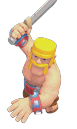
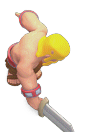
some photo added and walk of troop is ok

diff --git a/src/model/cards/CellValue.java b/src/model/cards/CellValue.java
@@ -4,51 +4,55 @@ import javafx.scene.image.Image;
 
 public enum CellValue {
 
-    BRIDGE(new Image("/view/photos/BackGround_Arena/bridge.png"), new Image("/view/photos/BackGround_Arena/bridge.png"), new Image("/view/photos/BackGround_Arena/bridge.png"), new Image("/view/photos/BackGround_Arena/bridge.png"), new Image("/view/photos/BackGround_Arena/bridge.png")),
-    HROAD(new Image("/view/photos/BackGround_Arena/roadTexture_13.png"), new Image("/view/photos/BackGround_Arena/roadTexture_13.png"), new Image("/view/photos/BackGround_Arena/bridge.png"), new Image("/view/photos/BackGround_Arena/bridge.png"), new Image("/view/photos/BackGround_Arena/bridge.png")),
-    GIANT(new Image("/view/photos/giant.png"), new Image("/view/photos/giant/myGiant_walk.png"), new Image("/view/photos/giant/myGiant_attack.png"), new Image("/view/photos/giant/botGiant_walk.png"), new Image("/view/photos/giant/botGiant_attack.png")),
-    ARCHER(new Image("/view/photos/archers.png"), new Image("/view/photos/archer/myArcher_walk.png"), new Image("/view/photos/archer/myArcher_attack.png"), new Image("/view/photos/archer/botArcher_walk.png"), new Image("/view/photos/archer/botArcher_attack.png")),
-    BARBERIAN(new Image("/view/photos/barbarians.png"), new Image("/view/photos/barbarian/myBarbarian_walk.png"), new Image("/view/photos/barbarian/myBarbarian_attack.png"), new Image("/view/photos/barbarian/botBarbarian_walk.png"), new Image("/view/photos/barbarian/botBarbarian_attack.png")),
-    WIZARD(new Image("/view/photos/wizard.png"), new Image("/view/photos/wizard/myWizard_walk.png"), new Image("/view/photos/wizard/myWizard_attack.png"), new Image("/view/photos/wizard/botWizard_walk.png"), new Image("/view/photos/wizard/botWizard_attack.png")),
-    MINI_PEKA(new Image("/view/photos/mini_pekka.png"), new Image("/view/photos/mini_pekka/myMinipekka_walk.png"), new Image("/view/photos/mini_pekka/myMinipekka_attack.png"), new Image("/view/photos/mini_pekka/botMinipekka_walk.png"), new Image("/view/photos/mini_pekka/botMinipekka_attack.png")),
-    RAGE(new Image("/view/photos/rage.png"), new Image("/view/photos/rage.png"), new Image("/view/photos/rage.png"), new Image("/view/photos/rage.png"), new Image("/view/photos/rage.png")),
-    ARROWS(new Image("/view/photos/arrows.png"), new Image("/view/photos/arrows.png"), new Image("/view/photos/arrows.png"), new Image("/view/photos/arrows.png"), new Image("/view/photos/arrows.png")),
-    FIREBALL(new Image("/view/photos/fire_fireball.png"), new Image("/view/photos/fire_fireball.png"), new Image("/view/photos/fire_fireball.png"), new Image("/view/photos/fire_fireball.png"), new Image("/view/photos/fire_fireball.png")),
-    BABY_DRAGON(new Image("/view/photos/baby_dragon.png"), new Image("/view/photos/baby_dragon/myBabydragon_walk.png"), new Image("/view/photos/baby_dragon/myBabydragon_walk.png"), new Image("/view/photos/baby_dragon/botBabydragon_walk.png"), new Image("/view/photos/baby_dragon/botBabydragon_walk.png")),
-    VALKYRIE(new Image("view/photos/valkyrie.png"), new Image("view/photos/valkyrie/myValkyrie_walk.png"), new Image("view/photos/valkyrie/myValkyrie_attack.png"), new Image("view/photos/valkyrie/botValkyrie_walk.png"), new Image("view/photos/valkyrie/botValkyrie_attack.png")),
-    CANNON(new Image("view/photos/chaos_cannon.png"), new Image("view/photos/building/cannon.png"), new Image("view/photos/building/cannon.png"), new Image("view/photos/building/cannon.png"), new Image("view/photos/building/cannon.png")),
-    INFERNO(new Image("view/photos/inferno_tower.png"), new Image("view/photos/building/infernoTower.png"), new Image("view/photos/building/infernoTower.png"), new Image("view/photos/building/infernoTower.png"), new Image("view/photos/building/infernoTower.png")),
-    GRASS(new Image("/view/photos/BackGround_Arena/grass.png"), new Image("/view/photos/BackGround_Arena/grass.png"), new Image("/view/photos/BackGround_Arena/grass.png"), new Image("/view/photos/BackGround_Arena/grass.png"), new Image("/view/photos/BackGround_Arena/grass.png")),
-    MYKINGTOWER(new Image("/view/photos/BackGround_Arena/king_tower.png"), new Image("/view/photos/tower/myKingtower.png"), new Image("/view/photos/tower/myKingtower.png"), new Image("/view/photos/tower/myKingtower.png"), new Image("/view/photos/tower/myKingtower.png")),
-    MYARCHERTOWER(new Image("/view/photos/BackGround_Arena/archer_tower.png"), new Image("/view/photos/tower/myArchertower.png"), new Image("/view/photos/tower/myArchertower.png"), new Image("/view/photos/tower/myArchertower.png"), new Image("/view/photos/tower/myArchertower.png")),
-    BOTKINGTOWER(new Image("/view/photos/BackGround_Arena/king_tower.png"), new Image("/view/photos/tower/botKingtower.png"), new Image("/view/photos/tower/botKingtower.png"), new Image("/view/photos/tower/botKingtower.png"), new Image("/view/photos/tower/botKingtower.png")),
-    BOTARCHERTOWER(new Image("/view/photos/BackGround_Arena/archer_tower.png"), new Image("/view/photos/tower/botArchertower.png"), new Image("/view/photos/tower/botArchertower.png"), new Image("/view/photos/tower/botArchertower.png"), new Image("/view/photos/tower/botArchertower.png")),
-    STONE(new Image("/view/photos/BackGround_Arena/stone.png"), new Image("/view/photos/BackGround_Arena/stone.png"), new Image("/view/photos/BackGround_Arena/stone.png"), new Image("/view/photos/BackGround_Arena/stone.png"), new Image("/view/photos/BackGround_Arena/stone.png")),
-    RIVER(new Image("/view/photos/BackGround_Arena/river2.png"), new Image("/view/photos/BackGround_Arena/river2.png"), new Image("/view/photos/BackGround_Arena/river2.png"), new Image("/view/photos/BackGround_Arena/river2.png"), new Image("/view/photos/BackGround_Arena/river2.png")),
-    ROAD(new Image("/view/photos/BackGround_Arena/roadTexture_01.png"), new Image("/view/photos/BackGround_Arena/roadTexture_01.png"), new Image("/view/photos/BackGround_Arena/roadTexture_01.png"), new Image("/view/photos/BackGround_Arena/roadTexture_01.png"), new Image("/view/photos/BackGround_Arena/roadTexture_01.png")),
-    FENCE(new Image("/view/photos/BackGround_Arena/king_tower.png"), new Image("/view/photos/BackGround_Arena/king_tower.png"), new Image("/view/photos/BackGround_Arena/king_tower.png"), new Image("/view/photos/BackGround_Arena/king_tower.png"), new Image("/view/photos/BackGround_Arena/king_tower.png")),
-    SHRUB(new Image("/view/photos/BackGround_Arena/shrub.png"), new Image("/view/photos/BackGround_Arena/shrub.png"), new Image("/view/photos/BackGround_Arena/shrub.png"), new Image("/view/photos/BackGround_Arena/shrub.png"), new Image("/view/photos/BackGround_Arena/shrub.png")),
-    TREE(new Image("/view/photos/BackGround_Arena/tree.png"), new Image("/view/photos/BackGround_Arena/tree.png"), new Image("/view/photos/BackGround_Arena/tree.png"), new Image("/view/photos/BackGround_Arena/tree.png"), new Image("/view/photos/BackGround_Arena/tree.png")),
-    HOME(new Image("/view/photos/BackGround_Arena/home.png"), new Image("/view/photos/BackGround_Arena/home.png"), new Image("/view/photos/BackGround_Arena/home.png"), new Image("/view/photos/BackGround_Arena/home.png"), new Image("/view/photos/BackGround_Arena/home.png")),
-    TIME(new Image("/view/photos/BackGround_Arena/timeBackground1.jpg"), new Image("/view/photos/BackGround_Arena/timeBackground.jpg"), new Image("/view/photos/BackGround_Arena/timeBackground.jpg"), new Image("/view/photos/BackGround_Arena/timeBackground.jpg"), new Image("/view/photos/BackGround_Arena/timeBackground.jpg")),
-    B_CROWN(new Image("/view/photos/BackGround_Arena/blueCrown.png"), new Image("/view/photos/BackGround_Arena/blueCrown.png"), new Image("/view/photos/BackGround_Arena/blueCrown.png"), new Image("/view/photos/BackGround_Arena/blueCrown.png"), new Image("/view/photos/BackGround_Arena/blueCrown.png")),
-    R_CROWN(new Image("/view/photos/BackGround_Arena/redCrown.png"), new Image("/view/photos/BackGround_Arena/redCrown.png"), new Image("/view/photos/BackGround_Arena/redCrown.png"), new Image("/view/photos/BackGround_Arena/redCrown.png"), new Image("/view/photos/BackGround_Arena/redCrown.png")),
-    POINT(new Image("/view/photos/BackGround_Arena/timeBackground1.jpg"), new Image("/view/photos/BackGround_Arena/timeBackground1.jpg"), new Image("/view/photos/BackGround_Arena/timeBackground1.jpg"), new Image("/view/photos/tower/damageTower.png"), new Image("/view/photos/BackGround_Arena/timeBackground1.jpg")),
-    DAMAGE(new Image("/view/photos/tower/damageTower.png") , new Image("/view/photos/tower/damageTower.png"), new Image("/view/photos/tower/damageTower.png"), new Image("/view/photos/tower/damageTower.png"), new Image("/view/photos/tower/damageTower.png")),
-    EMPTY(null, null, null, null, null);
+    BRIDGE(new Image("/view/photos/BackGround_Arena/bridge.png"), new Image("/view/photos/BackGround_Arena/bridge.png"), new Image("/view/photos/BackGround_Arena/bridge.png"), new Image("/view/photos/BackGround_Arena/bridge.png"), new Image("/view/photos/BackGround_Arena/bridge.png"), new Image("/view/photos/BackGround_Arena/bridge.png"), new Image("/view/photos/BackGround_Arena/bridge.png")),
+    HROAD(new Image("/view/photos/BackGround_Arena/roadTexture_13.png"), new Image("/view/photos/BackGround_Arena/roadTexture_13.png"), new Image("/view/photos/BackGround_Arena/bridge.png"), new Image("/view/photos/BackGround_Arena/bridge.png"), new Image("/view/photos/BackGround_Arena/bridge.png"), new Image("/view/photos/BackGround_Arena/bridge.png"), new Image("/view/photos/BackGround_Arena/bridge.png")),
+    GIANT(new Image("/view/photos/giant.png"), new Image("/view/photos/giant/myGiant_walk.png"), new Image("/view/photos/giant/myGiant_attack.png"), new Image("/view/photos/giant/botGiant_walk.png"), new Image("/view/photos/giant/botGiant_attack.png"), new Image("/view/photos/giant/myGiant_walk2.png"), new Image("/view/photos/giant/botGiant_walk2.png")),
+    ARCHER(new Image("/view/photos/archers.png"), new Image("/view/photos/archer/myArcher_walk.png"), new Image("/view/photos/archer/myArcher_attack.png"), new Image("/view/photos/archer/botArcher_walk.png"), new Image("/view/photos/archer/botArcher_attack.png"), new Image("/view/photos/archer/myArcher_walk2.png"), new Image("/view/photos/archer/botArcher_walk2.png")),
+    BARBERIAN(new Image("/view/photos/barbarians.png"), new Image("/view/photos/barbarian/myBarbarian_walk.png"), new Image("/view/photos/barbarian/myBarbarian_attack.png"), new Image("/view/photos/barbarian/botBarbarian_walk.png"), new Image("/view/photos/barbarian/botBarbarian_attack.png"), new Image("/view/photos/barbarian/myBarbarian_walk2.png"), new Image("/view/photos/barbarian/botBarbarian_walk2.png")),
+    WIZARD(new Image("/view/photos/wizard.png"), new Image("/view/photos/wizard/myWizard_walk.png"), new Image("/view/photos/wizard/myWizard_attack.png"), new Image("/view/photos/wizard/botWizard_walk.png"), new Image("/view/photos/wizard/botWizard_attack.png"), new Image("/view/photos/wizard/myWizard_walk2.png"), new Image("/view/photos/wizard/botWizard_walk2.png")),
+    MINI_PEKA(new Image("/view/photos/mini_pekka.png"), new Image("/view/photos/mini_pekka/myMinipekka_walk.png"), new Image("/view/photos/mini_pekka/myMinipekka_attack.png"), new Image("/view/photos/mini_pekka/botMinipekka_walk.png"), new Image("/view/photos/mini_pekka/botMinipekka_attack.png"), new Image("/view/photos/mini_pekka/myMinipekka_walk2.png"), new Image("/view/photos/mini_pekka/botMinipekka_walk2.png")),
+    RAGE(new Image("/view/photos/rage.png"), new Image("/view/photos/rage.png"), new Image("/view/photos/rage.png"), new Image("/view/photos/rage.png"), new Image("/view/photos/rage.png"), new Image("/view/photos/rage.png"), new Image("/view/photos/rage.png")),
+    ARROWS(new Image("/view/photos/arrows.png"), new Image("/view/photos/arrows.png"), new Image("/view/photos/arrows.png"), new Image("/view/photos/arrows.png"), new Image("/view/photos/arrows.png"), new Image("/view/photos/arrows.png"), new Image("/view/photos/arrows.png")),
+    FIREBALL(new Image("/view/photos/fire_fireball.png"), new Image("/view/photos/fire_fireball.png"), new Image("/view/photos/fire_fireball.png"), new Image("/view/photos/fire_fireball.png"), new Image("/view/photos/fire_fireball.png"), new Image("/view/photos/fire_fireball.png"), new Image("/view/photos/fire_fireball.png")),
+    BABY_DRAGON(new Image("/view/photos/baby_dragon.png"), new Image("/view/photos/baby_dragon/myBabydragon_walk.png"), new Image("/view/photos/baby_dragon/myBabydragon_walk.png"), new Image("/view/photos/baby_dragon/botBabydragon_walk.png"), new Image("/view/photos/baby_dragon/botBabydragon_walk.png"), new Image("/view/photos/baby_dragon/myBabydragon_walk2.png"), new Image("/view/photos/baby_dragon/botBabydragon_walk2.png")),
+    VALKYRIE(new Image("view/photos/valkyrie.png"), new Image("view/photos/valkyrie/myValkyrie_walk.png"), new Image("view/photos/valkyrie/myValkyrie_attack.png"), new Image("view/photos/valkyrie/botValkyrie_walk.png"), new Image("view/photos/valkyrie/botValkyrie_attack.png"), new Image("view/photos/valkyrie/myValkyrie_walk2.png"), new Image("view/photos/valkyrie/botValkyrie_walk2.png")),
+    CANNON(new Image("view/photos/chaos_cannon.png"), new Image("view/photos/building/cannon.png"), new Image("view/photos/building/cannon.png"), new Image("view/photos/building/cannon.png"), new Image("view/photos/building/cannon.png"), new Image("view/photos/building/cannon.png"), new Image("view/photos/building/cannon.png")),
+    INFERNO(new Image("view/photos/inferno_tower.png"), new Image("view/photos/building/infernoTower.png"), new Image("view/photos/building/infernoTower.png"), new Image("view/photos/building/infernoTower.png"), new Image("view/photos/building/infernoTower.png"), new Image("view/photos/building/infernoTower.png"), new Image("view/photos/building/infernoTower.png")),
+    GRASS(new Image("/view/photos/BackGround_Arena/grass.png"), new Image("/view/photos/BackGround_Arena/grass.png"), new Image("/view/photos/BackGround_Arena/grass.png"), new Image("/view/photos/BackGround_Arena/grass.png"), new Image("/view/photos/BackGround_Arena/grass.png"), new Image("/view/photos/BackGround_Arena/grass.png"), new Image("/view/photos/BackGround_Arena/grass.png")),
+    MYKINGTOWER(new Image("/view/photos/BackGround_Arena/king_tower.png"), new Image("/view/photos/tower/myKingtower.png"), new Image("/view/photos/tower/myKingtower.png"), new Image("/view/photos/tower/myKingtower.png"), new Image("/view/photos/tower/myKingtower.png"), new Image("/view/photos/tower/myKingtower.png"), new Image("/view/photos/tower/myKingtower.png")),
+    MYARCHERTOWER(new Image("/view/photos/BackGround_Arena/archer_tower.png"), new Image("/view/photos/tower/myArchertower.png"), new Image("/view/photos/tower/myArchertower.png"), new Image("/view/photos/tower/myArchertower.png"), new Image("/view/photos/tower/myArchertower.png"), new Image("/view/photos/tower/myArchertower.png"), new Image("/view/photos/tower/myArchertower.png")),
+    BOTKINGTOWER(new Image("/view/photos/BackGround_Arena/king_tower.png"), new Image("/view/photos/tower/botKingtower.png"), new Image("/view/photos/tower/botKingtower.png"), new Image("/view/photos/tower/botKingtower.png"), new Image("/view/photos/tower/botKingtower.png"), new Image("/view/photos/tower/botKingtower.png"), new Image("/view/photos/tower/botKingtower.png")),
+    BOTARCHERTOWER(new Image("/view/photos/BackGround_Arena/archer_tower.png"), new Image("/view/photos/tower/botArchertower.png"), new Image("/view/photos/tower/botArchertower.png"), new Image("/view/photos/tower/botArchertower.png"), new Image("/view/photos/tower/botArchertower.png"), new Image("/view/photos/tower/botArchertower.png"), new Image("/view/photos/tower/botArchertower.png")),
+    STONE(new Image("/view/photos/BackGround_Arena/stone.png"), new Image("/view/photos/BackGround_Arena/stone.png"), new Image("/view/photos/BackGround_Arena/stone.png"), new Image("/view/photos/BackGround_Arena/stone.png"), new Image("/view/photos/BackGround_Arena/stone.png"), new Image("/view/photos/BackGround_Arena/stone.png"), new Image("/view/photos/BackGround_Arena/stone.png")),
+    RIVER(new Image("/view/photos/BackGround_Arena/river2.png"), new Image("/view/photos/BackGround_Arena/river2.png"), new Image("/view/photos/BackGround_Arena/river2.png"), new Image("/view/photos/BackGround_Arena/river2.png"), new Image("/view/photos/BackGround_Arena/river2.png"), new Image("/view/photos/BackGround_Arena/river2.png"), new Image("/view/photos/BackGround_Arena/river2.png")),
+    ROAD(new Image("/view/photos/BackGround_Arena/roadTexture_01.png"), new Image("/view/photos/BackGround_Arena/roadTexture_01.png"), new Image("/view/photos/BackGround_Arena/roadTexture_01.png"), new Image("/view/photos/BackGround_Arena/roadTexture_01.png"), new Image("/view/photos/BackGround_Arena/roadTexture_01.png"), new Image("/view/photos/BackGround_Arena/roadTexture_01.png"), new Image("/view/photos/BackGround_Arena/roadTexture_01.png")),
+    FENCE(new Image("/view/photos/BackGround_Arena/king_tower.png"), new Image("/view/photos/BackGround_Arena/king_tower.png"), new Image("/view/photos/BackGround_Arena/king_tower.png"), new Image("/view/photos/BackGround_Arena/king_tower.png"), new Image("/view/photos/BackGround_Arena/king_tower.png"), new Image("/view/photos/BackGround_Arena/king_tower.png"), new Image("/view/photos/BackGround_Arena/king_tower.png")),
+    SHRUB(new Image("/view/photos/BackGround_Arena/shrub.png"), new Image("/view/photos/BackGround_Arena/shrub.png"), new Image("/view/photos/BackGround_Arena/shrub.png"), new Image("/view/photos/BackGround_Arena/shrub.png"), new Image("/view/photos/BackGround_Arena/shrub.png"), new Image("/view/photos/BackGround_Arena/shrub.png"), new Image("/view/photos/BackGround_Arena/shrub.png")),
+    TREE(new Image("/view/photos/BackGround_Arena/tree.png"), new Image("/view/photos/BackGround_Arena/tree.png"), new Image("/view/photos/BackGround_Arena/tree.png"), new Image("/view/photos/BackGround_Arena/tree.png"), new Image("/view/photos/BackGround_Arena/tree.png"), new Image("/view/photos/BackGround_Arena/tree.png"), new Image("/view/photos/BackGround_Arena/tree.png")),
+    HOME(new Image("/view/photos/BackGround_Arena/home.png"), new Image("/view/photos/BackGround_Arena/home.png"), new Image("/view/photos/BackGround_Arena/home.png"), new Image("/view/photos/BackGround_Arena/home.png"), new Image("/view/photos/BackGround_Arena/home.png"), new Image("/view/photos/BackGround_Arena/home.png"), new Image("/view/photos/BackGround_Arena/home.png")),
+    TIME(new Image("/view/photos/BackGround_Arena/timeBackground1.jpg"), new Image("/view/photos/BackGround_Arena/timeBackground.jpg"), new Image("/view/photos/BackGround_Arena/timeBackground.jpg"), new Image("/view/photos/BackGround_Arena/timeBackground.jpg"), new Image("/view/photos/BackGround_Arena/timeBackground.jpg"), new Image("/view/photos/BackGround_Arena/timeBackground.jpg"), new Image("/view/photos/BackGround_Arena/timeBackground.jpg")),
+    B_CROWN(new Image("/view/photos/BackGround_Arena/blueCrown.png"), new Image("/view/photos/BackGround_Arena/blueCrown.png"), new Image("/view/photos/BackGround_Arena/blueCrown.png"), new Image("/view/photos/BackGround_Arena/blueCrown.png"), new Image("/view/photos/BackGround_Arena/blueCrown.png"), new Image("/view/photos/BackGround_Arena/blueCrown.png"), new Image("/view/photos/BackGround_Arena/blueCrown.png")),
+    R_CROWN(new Image("/view/photos/BackGround_Arena/redCrown.png"), new Image("/view/photos/BackGround_Arena/redCrown.png"), new Image("/view/photos/BackGround_Arena/redCrown.png"), new Image("/view/photos/BackGround_Arena/redCrown.png"), new Image("/view/photos/BackGround_Arena/redCrown.png"), new Image("/view/photos/BackGround_Arena/redCrown.png"), new Image("/view/photos/BackGround_Arena/redCrown.png")),
+    POINT(new Image("/view/photos/BackGround_Arena/timeBackground1.jpg"), new Image("/view/photos/BackGround_Arena/timeBackground1.jpg"), new Image("/view/photos/BackGround_Arena/timeBackground1.jpg"), new Image("/view/photos/tower/damageTower.png"), new Image("/view/photos/BackGround_Arena/timeBackground1.jpg"), new Image("/view/photos/BackGround_Arena/timeBackground1.jpg"), new Image("/view/photos/BackGround_Arena/timeBackground1.jpg")),
+    DAMAGE(new Image("/view/photos/tower/damageTower.png"), new Image("/view/photos/tower/damageTower.png"), new Image("/view/photos/tower/damageTower.png"), new Image("/view/photos/tower/damageTower.png"), new Image("/view/photos/tower/damageTower.png"), new Image("/view/photos/tower/damageTower.png"), new Image("/view/photos/tower/damageTower.png")),
+    EMPTY(null, null, null, null, null, null, null);
     private Image thumbnailImage;
     private Image myWalk;
     private Image myAttack;
     private Image botWalk;
     private Image botAttack;
+    private Image myWalk2;
+    private Image botWalk2;
 
 
-    CellValue(Image image_1, Image image_2, Image image_3, Image image_4, Image image_5) {
+    CellValue(Image image_1, Image image_2, Image image_3, Image image_4, Image image_5, Image image_6, Image image_7) {
         thumbnailImage = image_1;
         myWalk = image_2;
         myAttack = image_3;
         botWalk = image_4;
         botAttack = image_5;
+        myWalk2 = image_6;
+        botWalk2 = image_7;
     }
 
     public Image getThumbnailImage() {
@@ -69,5 +73,13 @@ public enum CellValue {
 
     public Image getBotAttack() {
         return botAttack;
+    }
+
+    public Image getMyWalk2() {
+        return myWalk2;
+    }
+
+    public Image getBotWalk2() {
+        return botWalk2;
     }
 }

diff --git a/src/view/ArenaView.java b/src/view/ArenaView.java
@@ -32,6 +32,7 @@ public class ArenaView extends Group {
     private ProgressBar elixirProgress;
     private ImageView[][] cellView;
     private ImageView[][] componentView;
+    private ProgressBar[][] healthBar;
     public static ImageView[][] king;
 
     public ArenaView() {
@@ -46,11 +47,19 @@ public class ArenaView extends Group {
         cellView = new ImageView[rowCount][columnCount];
         componentView = new ImageView[rowCount][columnCount];
         king = new ImageView[rowCount][columnCount];
+        healthBar = new ProgressBar[rowCount][columnCount];
         for (int row = 0; row < rowCount; row++) {
             for (int column = 0; column < columnCount; column++) {
                 ImageView imageView = new ImageView();
                 ImageView imageView1 = new ImageView();
                 ImageView imageView2 = new ImageView();
+                ProgressBar progressBar = new ProgressBar();
+
+                progressBar.setProgress(0.3);
+
+                progressBar.setLayoutX(column * CELL_WIDTH);
+                progressBar.setLayoutY(row * CELL_WIDTH - 10);
+                progressBar.setPrefSize(CELL_WIDTH, 5);
                 imageView.setX(column * CELL_WIDTH);
                 imageView.setY(row * CELL_WIDTH);
                 imageView.setFitWidth(CELL_WIDTH);
@@ -68,9 +77,11 @@ public class ArenaView extends Group {
                 cellView[row][column] = imageView;
                 componentView[row][column] = imageView1;
                 king[row][column] = imageView2;
+                healthBar[row][column] = progressBar;
                 this.getChildren().add(imageView);
                 this.getChildren().add(imageView1);
                 this.getChildren().add(imageView2);
+
             }
         }
         timeLabel.setLayoutX((CELL_WIDTH * 17) + 6);
@@ -168,13 +179,21 @@ public class ArenaView extends Group {
                         if (getCardWithPoint(j, i, model).isAttack()) {
                             componentView[i][j].setImage(GIANT.getMyAttack());
                         } else {
-                            componentView[i][j].setImage(GIANT.getMyWalk());
+                            if (getCardWithPoint(j, i, model).isWalk2()) {
+                                componentView[i][j].setImage(GIANT.getMyWalk2());
+                            } else {
+                                componentView[i][j].setImage(GIANT.getMyWalk());
+                            }
                         }
-                    } else if(model.getLogic().isBotElement(getCardWithPoint(j, i, model))) {
+                    } else if (model.getLogic().isBotElement(getCardWithPoint(j, i, model))) {
                         if (getCardWithPoint(j, i, model).isAttack()) {
                             componentView[i][j].setImage(GIANT.getBotAttack());
                         } else {
-                            componentView[i][j].setImage(GIANT.getBotWalk());
+                            if (getCardWithPoint(j, i, model).isWalk2()) {
+                                componentView[i][j].setImage(GIANT.getBotWalk2());
+                            } else {
+                                componentView[i][j].setImage(GIANT.getBotWalk());
+                            }
                         }
                     }
 
@@ -183,13 +202,21 @@ public class ArenaView extends Group {
                         if (getCardWithPoint(j, i, model).isAttack()) {
                             componentView[i][j].setImage(ARCHER.getMyAttack());
                         } else {
-                            componentView[i][j].setImage(ARCHER.getMyWalk());
+                            if (getCardWithPoint(j, i, model).isWalk2()) {
+                                componentView[i][j].setImage(ARCHER.getMyWalk2());
+                            } else {
+                                componentView[i][j].setImage(ARCHER.getMyWalk());
+                            }
                         }
-                    } else if(model.getLogic().isBotElement(getCardWithPoint(j, i, model))){
+                    } else if (model.getLogic().isBotElement(getCardWithPoint(j, i, model))) {
                         if (getCardWithPoint(j, i, model).isAttack()) {
                             componentView[i][j].setImage(ARCHER.getBotAttack());
                         } else {
-                            componentView[i][j].setImage(ARCHER.getBotWalk());
+                            if (getCardWithPoint(j, i, model).isWalk2()) {
+                                componentView[i][j].setImage(ARCHER.getBotWalk2());
+                            } else {
+                                componentView[i][j].setImage(ARCHER.getBotWalk());
+                            }
                         }
                     }
                 } else if (cellValues[i][j].getValue() == CANNON) {
@@ -200,13 +227,21 @@ public class ArenaView extends Group {
                         if (getCardWithPoint(j, i, model).isAttack()) {
                             componentView[i][j].setImage(BARBERIAN.getMyAttack());
                         } else {
-                            componentView[i][j].setImage(BARBERIAN.getMyWalk());
+                            if (getCardWithPoint(j, i, model).isWalk2()) {
+                                componentView[i][j].setImage(BARBERIAN.getMyWalk2());
+                            } else {
+                                componentView[i][j].setImage(BARBERIAN.getMyWalk());
+                            }
                         }
-                    } else if(model.getLogic().isBotElement(getCardWithPoint(j, i, model))){
+                    } else if (model.getLogic().isBotElement(getCardWithPoint(j, i, model))) {
                         if (getCardWithPoint(j, i, model).isAttack()) {
                             componentView[i][j].setImage(BARBERIAN.getBotAttack());
                         } else {
-                            componentView[i][j].setImage(BARBERIAN.getBotWalk());
+                            if (getCardWithPoint(j, i, model).isWalk2()) {
+                                componentView[i][j].setImage(BARBERIAN.getBotWalk2());
+                            } else {
+                                componentView[i][j].setImage(BARBERIAN.getBotWalk());
+                            }
                         }
                     }
                 } else if (cellValues[i][j].getValue() == FIREBALL) {
@@ -216,13 +251,21 @@ public class ArenaView extends Group {
                         if (getCardWithPoint(j, i, model).isAttack()) {
                             componentView[i][j].setImage(WIZARD.getMyAttack());
                         } else {
-                            componentView[i][j].setImage(WIZARD.getMyWalk());
+                            if (getCardWithPoint(j, i, model).isWalk2()) {
+                                componentView[i][j].setImage(WIZARD.getMyWalk2());
+                            } else {
+                                componentView[i][j].setImage(WIZARD.getMyWalk());
+                            }
                         }
-                    } else if(model.getLogic().isBotElement(getCardWithPoint(j, i, model))){
+                    } else if (model.getLogic().isBotElement(getCardWithPoint(j, i, model))) {
                         if (getCardWithPoint(j, i, model).isAttack()) {
                             componentView[i][j].setImage(WIZARD.getBotAttack());
                         } else {
-                            componentView[i][j].setImage(WIZARD.getBotWalk());
+                            if (getCardWithPoint(j, i, model).isWalk2()) {
+                                componentView[i][j].setImage(WIZARD.getBotWalk2());
+                            } else {
+                                componentView[i][j].setImage(WIZARD.getBotWalk());
+                            }
                         }
                     }
                 } else if (cellValues[i][j].getValue() == MINI_PEKA) {
@@ -230,13 +273,21 @@ public class ArenaView extends Group {
                         if (getCardWithPoint(j, i, model).isAttack()) {
                             componentView[i][j].setImage(MINI_PEKA.getMyAttack());
                         } else {
-                            componentView[i][j].setImage(MINI_PEKA.getMyWalk());
+                            if (getCardWithPoint(j, i, model).isWalk2()) {
+                                componentView[i][j].setImage(MINI_PEKA.getMyWalk2());
+                            } else {
+                                componentView[i][j].setImage(MINI_PEKA.getMyWalk());
+                            }
                         }
-                    } else if(model.getLogic().isBotElement(getCardWithPoint(j, i, model))){
+                    } else if (model.getLogic().isBotElement(getCardWithPoint(j, i, model))) {
                         if (getCardWithPoint(j, i, model).isAttack()) {
                             componentView[i][j].setImage(MINI_PEKA.getBotAttack());
                         } else {
-                            componentView[i][j].setImage(MINI_PEKA.getBotWalk());
+                            if (getCardWithPoint(j, i, model).isWalk2()) {
+                                componentView[i][j].setImage(MINI_PEKA.getBotWalk2());
+                            } else {
+                                componentView[i][j].setImage(MINI_PEKA.getBotWalk());
+                            }
                         }
                     }
                 } else if (cellValues[i][j].getValue() == VALKYRIE) {
@@ -244,13 +295,21 @@ public class ArenaView extends Group {
                         if (getCardWithPoint(j, i, model).isAttack()) {
                             componentView[i][j].setImage(VALKYRIE.getMyAttack());
                         } else {
-                            componentView[i][j].setImage(VALKYRIE.getMyWalk());
+                            if (getCardWithPoint(j, i, model).isWalk2()) {
+                                componentView[i][j].setImage(VALKYRIE.getMyWalk2());
+                            } else {
+                                componentView[i][j].setImage(VALKYRIE.getMyWalk());
+                            }
                         }
-                    } else if(model.getLogic().isBotElement(getCardWithPoint(j, i, model))){
+                    } else if (model.getLogic().isBotElement(getCardWithPoint(j, i, model))) {
                         if (getCardWithPoint(j, i, model).isAttack()) {
                             componentView[i][j].setImage(VALKYRIE.getBotAttack());
                         } else {
-                            componentView[i][j].setImage(VALKYRIE.getBotWalk());
+                            if (getCardWithPoint(j, i, model).isWalk2()) {
+                                componentView[i][j].setImage(VALKYRIE.getBotWalk2());
+                            } else {
+                                componentView[i][j].setImage(VALKYRIE.getBotWalk());
+                            }
                         }
                     }
                 } else if (cellValues[i][j].getValue() == RAGE) {
@@ -260,13 +319,21 @@ public class ArenaView extends Group {
                         if (getCardWithPoint(j, i, model).isAttack()) {
                             componentView[i][j].setImage(BABY_DRAGON.getMyAttack());
                         } else {
-                            componentView[i][j].setImage(BABY_DRAGON.getMyWalk());
+                            if (getCardWithPoint(j, i, model).isWalk2()) {
+                                componentView[i][j].setImage(BABY_DRAGON.getMyWalk2());
+                            } else {
+                                componentView[i][j].setImage(BABY_DRAGON.getMyWalk());
+                            }
                         }
-                    } else if(model.getLogic().isBotElement(getCardWithPoint(j, i, model))){
+                    } else if (model.getLogic().isBotElement(getCardWithPoint(j, i, model))) {
                         if (getCardWithPoint(j, i, model).isAttack()) {
                             componentView[i][j].setImage(BABY_DRAGON.getBotAttack());
                         } else {
-                            componentView[i][j].setImage(BABY_DRAGON.getBotWalk());
+                            if (getCardWithPoint(j, i, model).isWalk2()) {
+                                componentView[i][j].setImage(BABY_DRAGON.getBotWalk2());
+                            } else {
+                                componentView[i][j].setImage(BABY_DRAGON.getBotWalk());
+                            }
                         }
                     }
 

diff --git a/src/model/game/GameLogic.java b/src/model/game/GameLogic.java
@@ -50,8 +50,9 @@ public class GameLogic {
         updateBoard();
         if (!MenuController.isOnServer)
             executeBot();
-
-        botLogic.executeBot();
+        if (!MenuController.isOnServer) {
+            botLogic.executeBot();
+        }
 
     }
 
@@ -430,6 +431,13 @@ public class GameLogic {
     private void moveCard(Troop movingCard, Point2D point) {
         if (!canMove(movingCard))
             return;
+        if (ArenaController.countTime % 2 == 0)
+        {
+            movingCard.setWalk2(true);
+        }
+        else {
+            movingCard.setWalk2(false);
+        }
         Point2D cardPoint = movingCard.getPoint();
         int a1 = (int) (point.getX() - cardPoint.getX());
         int a2 = (int) (point.getY() - cardPoint.getY());

diff --git a/src/model/GameElement.java b/src/model/GameElement.java
@@ -12,6 +12,7 @@ public abstract class GameElement implements Serializable {
     private int range ;
     private boolean isDead ;
     private boolean isAttack;
+    private boolean isWalk2;
 
 
 
@@ -47,6 +48,14 @@ public abstract class GameElement implements Serializable {
     }
     public boolean isDead(){
         return isDead ;
+    }
+
+    public boolean isWalk2() {
+        return isWalk2;
+    }
+
+    public void setWalk2(boolean walk2) {
+        isWalk2 = walk2;
     }
 }
 
